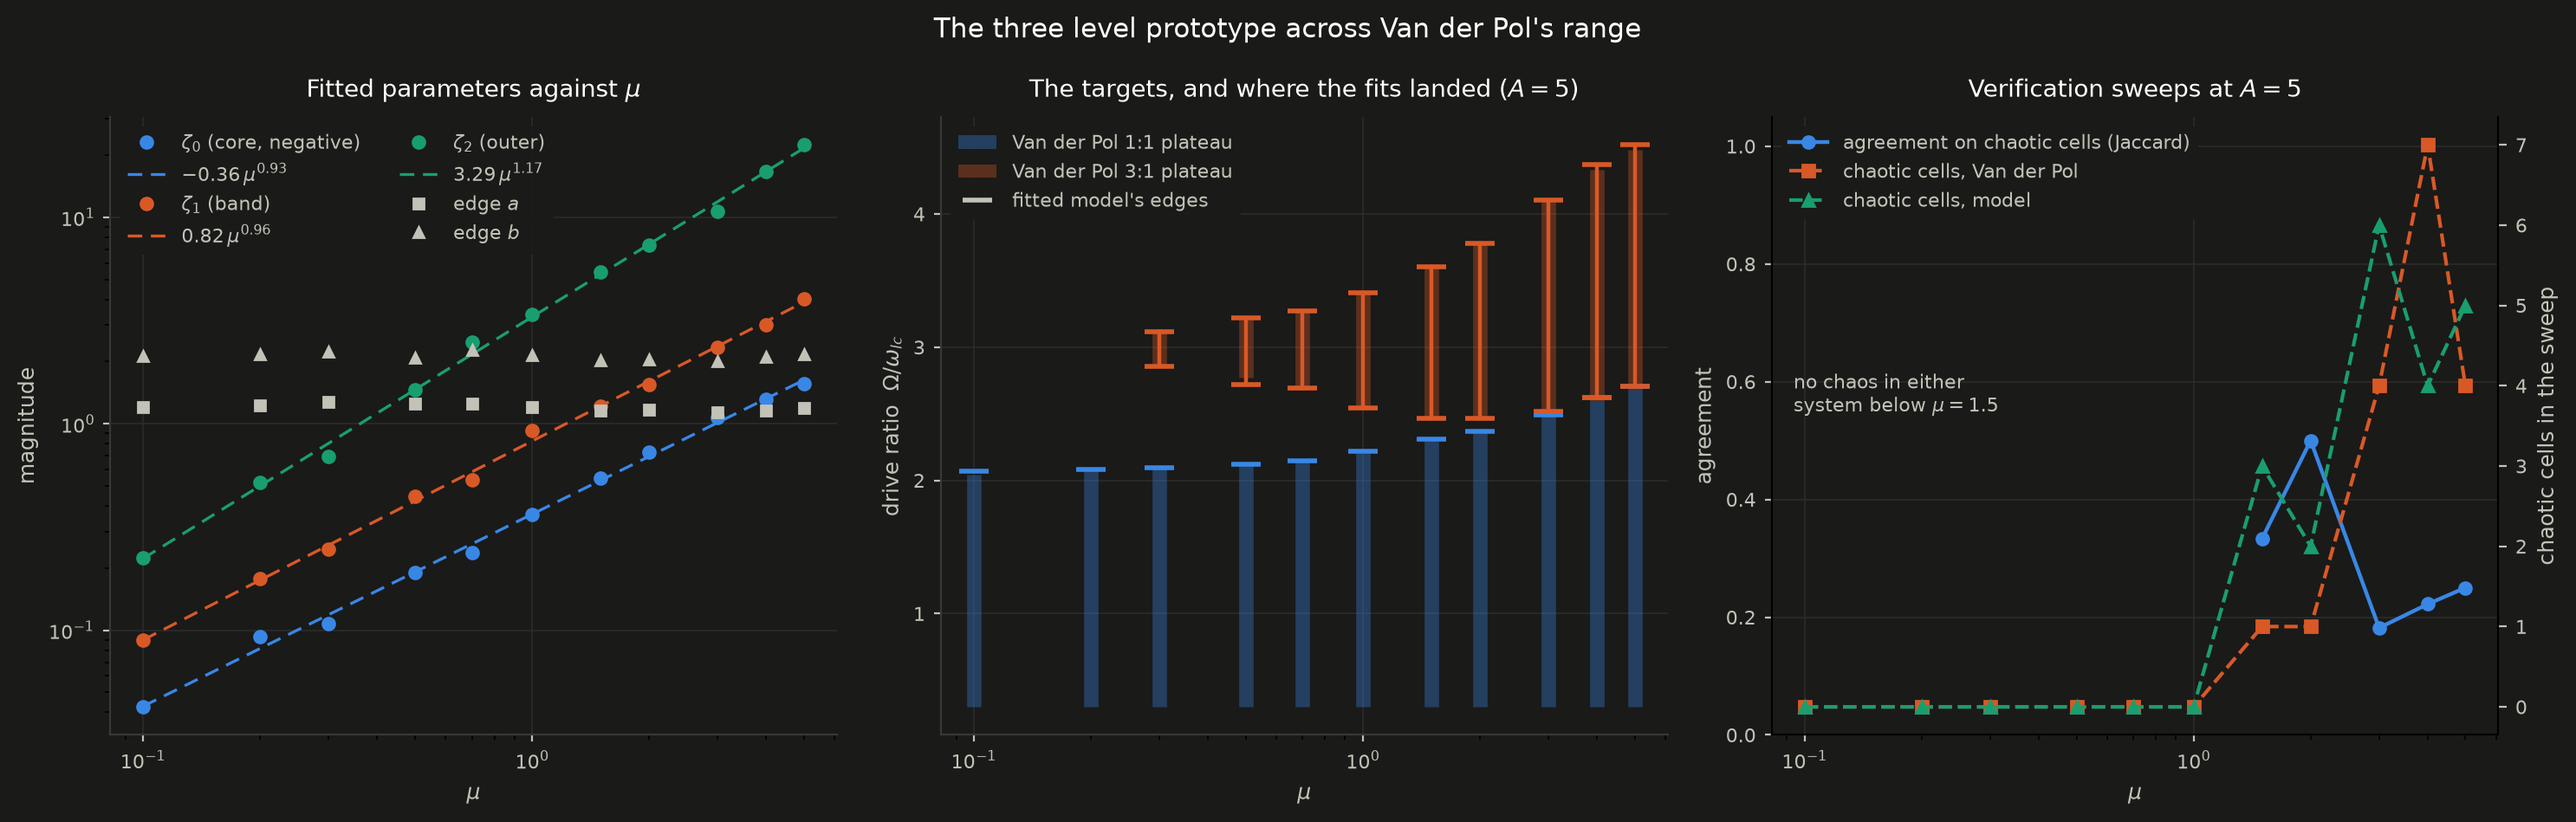
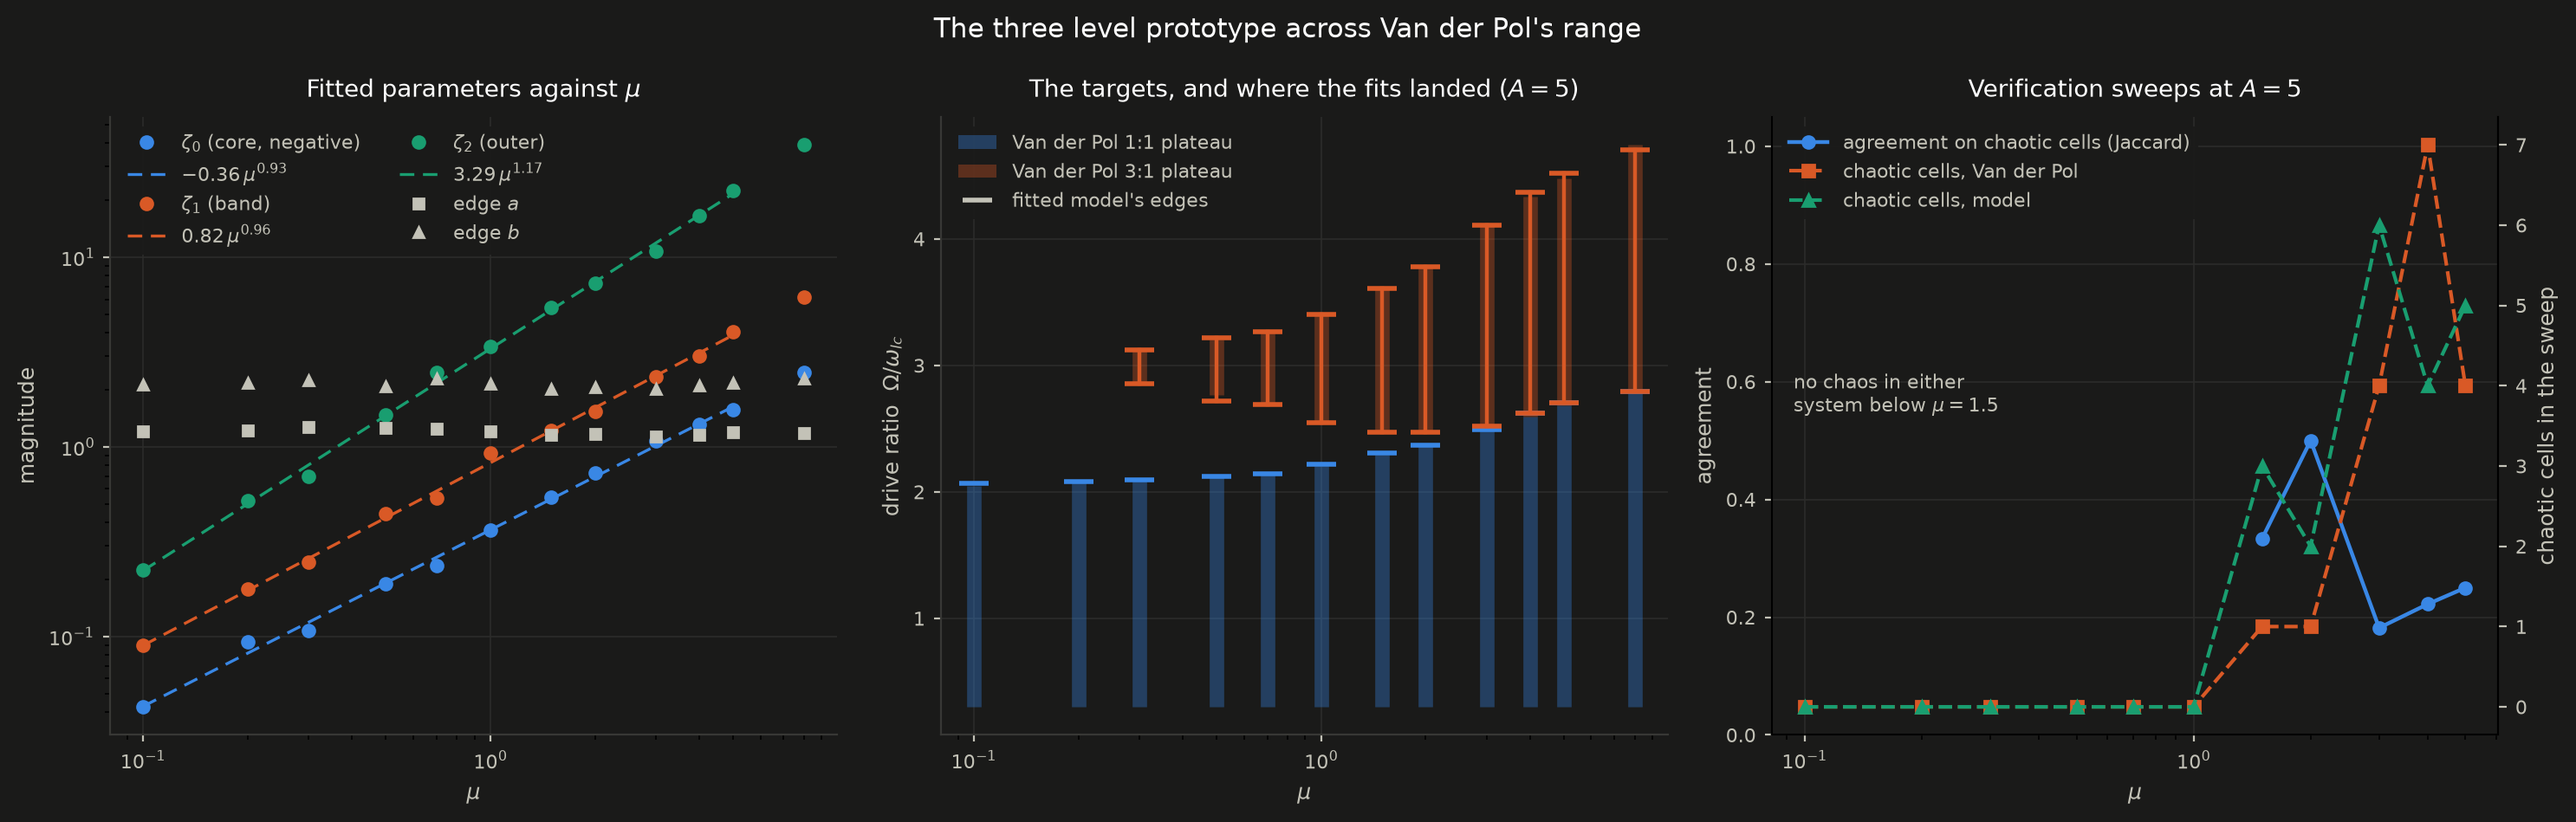
THREELEVEL.md: the laws hold at mu = 8, and the mu = 2 fit holds across the drive grid
Claude-Session: https://claude.ai/code/session_01TCkveJPUbZ33KP7WqV2MuG

diff --git a/THREELEVEL.md b/THREELEVEL.md
@@ -496,6 +496,7 @@ campaign runs.
 | 3 | $`-1.074`$ | 2.353 | 10.72 | 1.131 | 2.018 | 2.047 (+1.2%) | 9.252 (+4.4%) | 2.49 vs 2.49 | 2.52–4.11 vs 2.53–4.11 | 30 |
 | 4 | $`-1.319`$ | 3.020 | 16.59 | 1.161 | 2.109 | 2.118 (+4.7%) | 10.469 (+2.6%) | 2.62 vs 2.59 | 2.62–4.37 vs 2.59–4.33 | 18 |
 | 5 | $`-1.563`$ | 4.025 | 22.42 | 1.189 | 2.179 | 2.094 (+3.6%) | 11.961 (+3.0%) | 2.71 vs 2.68 | 2.71–4.52 vs 2.68–4.48 | 18 |
+| 8 | $`-2.475`$ | 6.136 | 39.13 | 1.178 | 2.303 | 2.119 (+5.1%) | 16.686 (+4.0%) | 2.79 vs 2.81 | 2.79–4.71 vs 2.81–4.74 | 18 |
 
 Power laws through the fits (11 points): $`\zeta_0 = -0.365\,\mu^{0.930}`$; $`\zeta_1 = +0.824\,\mu^{0.963}`$; $`\zeta_2 = +3.290\,\mu^{1.170}`$; edges $`a = 1.202 \pm 0.044`$, $`b = 2.132 \pm 0.082`$.
 
@@ -593,6 +594,38 @@ agreement measured cell by cell is modest, 0.2 to 0.5, because the bands
 are one to four cells wide and shifted by a cell or two; the agreement on
 *whether* and *at which transition* is complete apart from the one miss.
 
+### Beyond the fitted range, and across drive strength
+
+Two of the deferred items were run once the campaign had finished.
+
+**$`\mu = 8`$, started from the laws.** Van der Pol there is a hard
+relaxation oscillator, free period 16.0, its 1:1 and 3:1 plateaus meeting
+directly at 2.81 with the 3:1 running to 4.74. The laws, fitted on 0.1 to
+5, predict $`\zeta = (-2.52, 6.10, 37.4)`$ with the usual edges; eighteen
+evaluations of the fit moved that to $`(-2.48, 6.14, 39.1)`$, edges
+$`(1.18, 2.30)`$, plateau edges at 2.79 and 4.71 against 2.81 and 4.74,
+free amplitude 5% high and period 4% long. The laws hold at 8; the row is
+in the table above, marked as outside the range the laws were fitted on
+and not used in them.
+
+**$`\mu = 2`$ across drive strength.** The regime map of the campaign's
+$`\mu = 2`$ fit beside Van der Pol over the same grid as the $`\mu = 5`$ and
+1 proofs, drive amplitudes 0 to 10 and ratios to 8:
+
+<picture>
+  <source media="(prefers-color-scheme: dark)" srcset="figures/regime-three-mu2-dark.png">
+  <img alt="Regime maps over drive ratio and amplitude for the three level model fitted at mu = 2 and for Van der Pol at mu = 2, with the unforced row marked, and the two free limit cycles in the phase plane" src="figures/regime-three-mu2-light.png">
+</picture>
+
+*The campaign's $`\mu = 2`$ fit across the drive grid. The lock plateaus sit on Van der Pol's at every drive strength; the model has narrow high order locks where Van der Pol has tori, as at $`\mu = 1`$ and 5. Neither system shows chaos on this 0.1 grid, which steps over the one-cell band both have at the 1:1 to 3:1 transition at $`A = 5`$.*
+
+Plateau for plateau: at $`A = 5`$ the 1:1 lock ends at 2.3 and the 3:1
+runs 2.5 to 3.7 on both; at $`A = 10`$ the 1:1 ends at 3.1 against 3.2
+and the 3:1 runs 3.2–4.3 against 3.3–4.3; the 4:1 and 5:1 locks are at
+the same cells at every drive strength that has them. The model fitted
+at one drive strength holds across the grid at $`\mu = 2`$ as it did at
+5 and at 1.
+
 <picture>
   <source media="(prefers-color-scheme: dark)" srcset="figures/campaign-dark.png">
   <img alt="The fitted damping ratios and edges against mu with power laws through them, Van der Pol's plateau edges at each mu with the fitted models' edges over them, and the verification agreement against mu" src="figures/campaign-light.png">
@@ -621,9 +654,9 @@ is not enough; two drive strengths are.
 
 ## Gaps
 
-- **Nothing beyond $`\mu = 5`$.** Eleven fits from 0.1 to 5 lie on power
-  laws; whether the laws hold at 7 or 10, where Van der Pol is a hard
-  relaxation oscillator, is untested.
+- **Beyond $`\mu = 8`$ nothing is known.** The laws fitted on 0.1 to 5
+  hold at 8 to within 5% on the ratios; at 10 and above they are
+  untested.
 - **One drive strength in the fit.** Every campaign fit used the plateau
   edges at $`A = 5`$ (plus the tongue at $`A = 1`$ below $`\mu = 0.3`$);
   the $`\mu = 5`$ regime map is the only test across drive strength.
